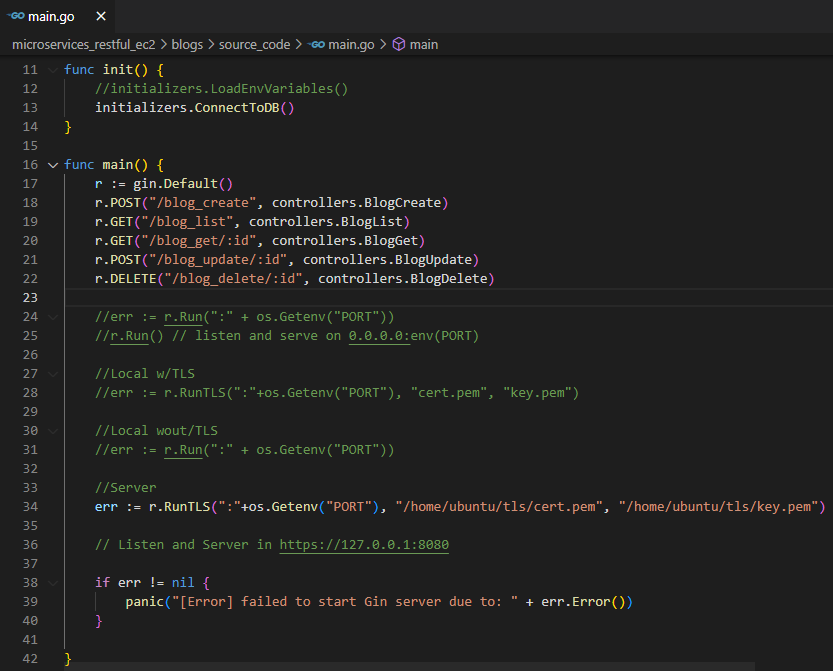
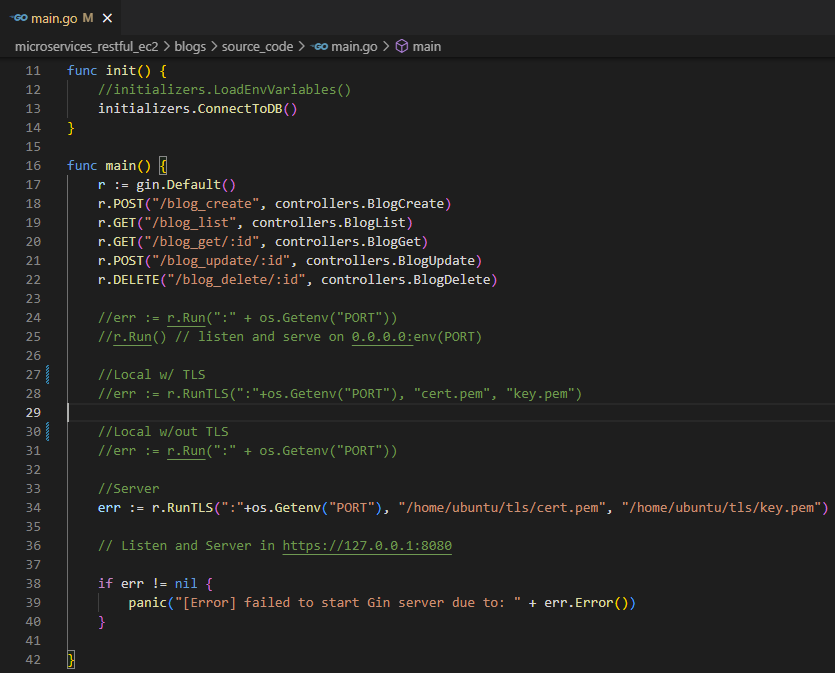
commit

diff --git a/microservices_restful_ec2/blogs/source_code/main.go b/microservices_restful_ec2/blogs/source_code/main.go
@@ -24,10 +24,10 @@ func main() {
 	//err := r.Run(":" + os.Getenv("PORT"))
 	//r.Run() // listen and serve on 0.0.0.0:env(PORT)
 
-	//Local w/TLS
+	//Local w/ TLS
 	//err := r.RunTLS(":"+os.Getenv("PORT"), "cert.pem", "key.pem")
 
-	//Local wout/TLS
+	//Local w/out TLS
 	//err := r.Run(":" + os.Getenv("PORT"))
 
 	//Server
